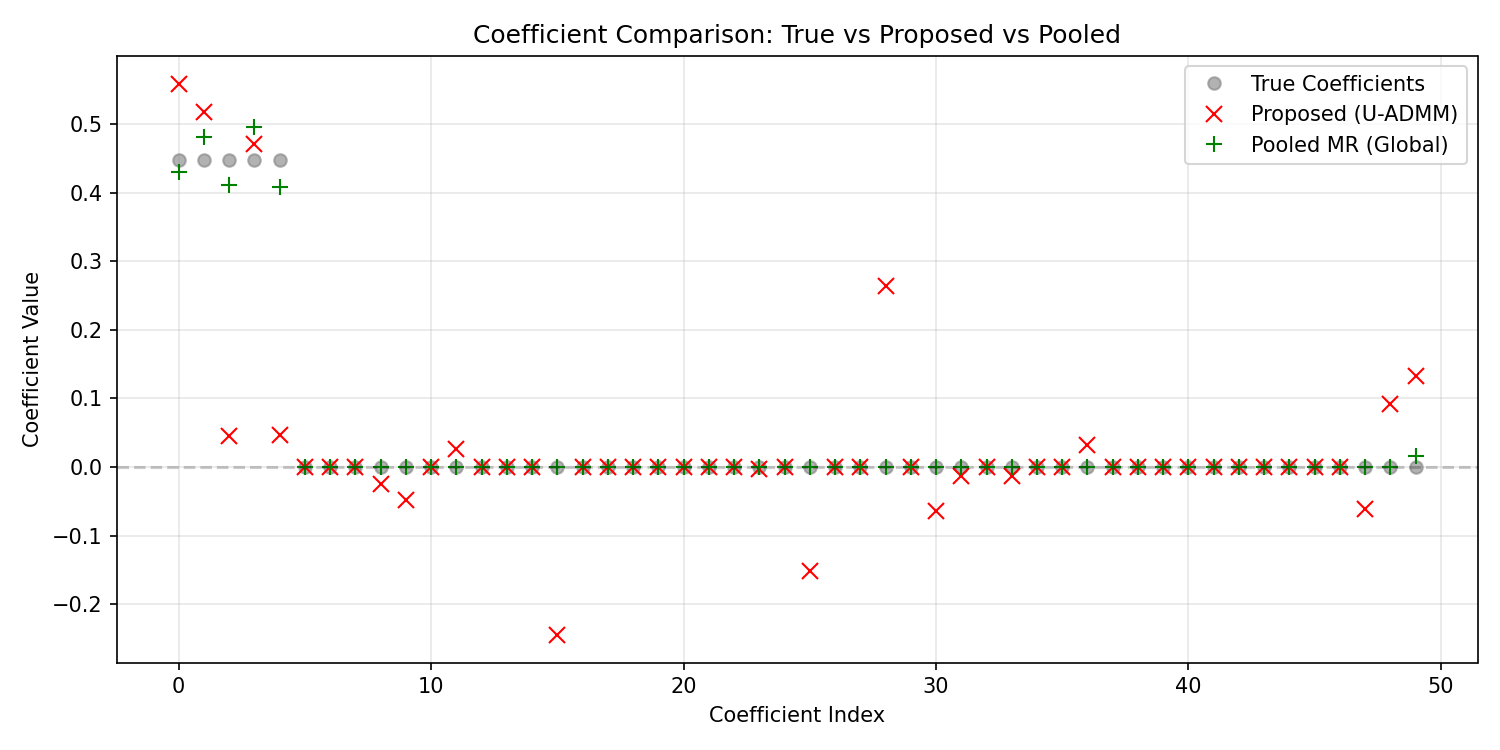
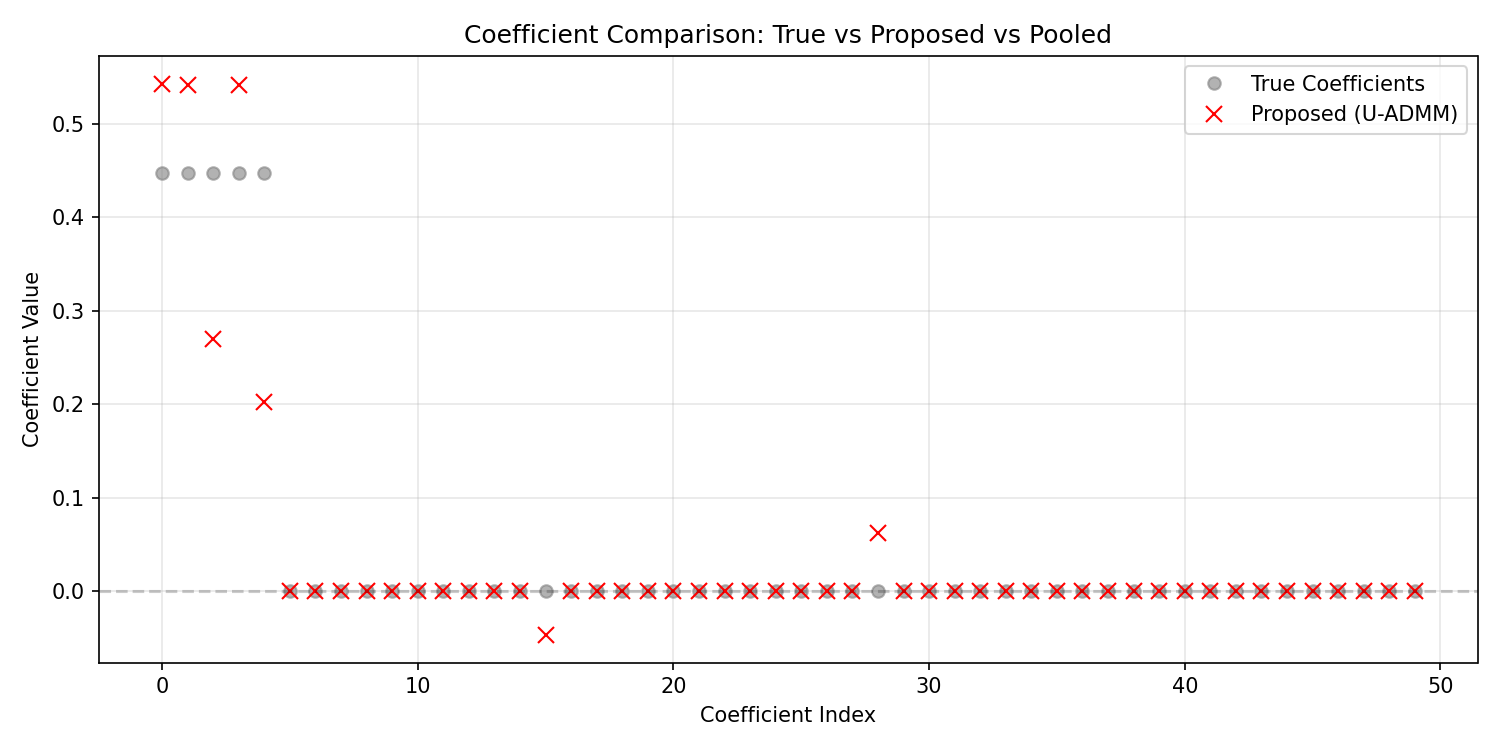
changes in admm

diff --git a/algorithms/admm.py b/algorithms/admm.py
@@ -166,8 +166,14 @@ def inner_admm(theta_t_list, p_t_list, agg_grad_list, H_rho_list, W,
         for j in range(m):
             sum_nb = sum(theta_w[k] for k in nb[j]) if nb[j] else np.zeros((p, 1))
 
+            # numerator = (
+            #         H_rho_list[j] * theta_w[j]  # 使用内层变量作为近端锚点
+            #         - agg_grad_list[j]
+            #         - p_w[j]
+            #         + rho * (dg[j] * theta_w[j] + sum_nb)
+            # )
             numerator = (
-                    H_rho_list[j] * theta_w[j]  # 使用内层变量作为近端锚点
+                    H_rho_list[j] * theta_t_list[j]  # 修复：必须使用外层传入的固定锚点！
                     - agg_grad_list[j]
                     - p_w[j]
                     + rho * (dg[j] * theta_w[j] + sum_nb)
@@ -267,144 +273,117 @@ def run_u_admm(data, T=5, W_inner=5, rho=0.1, lam_t=0.0, verbose=False,
             else:
                 data['precomputed_pairs'].append(aft_pairs(data['X'][j], data['logTt'][j], data['delta'][j], data['Sigma']))
 
-    # 支持通过 theta0_list 传入外部热启动参数
+    # 初始化
     if theta0_list is not None:
-        theta_t = [th.copy() for th in theta0_list]
+        init_theta_t = [th.copy() for th in theta0_list]
         theta_naive = np.mean(np.hstack(theta0_list), axis=1, keepdims=True)
         if task == 'ranking':
             theta_naive = _proj_sphere(theta_naive)
     else:
-        theta_t_local, theta_naive = init_all_nodes(data)
-        theta_t = [th.copy() for th in theta_t_local]
+        init_theta_t, theta_naive = init_all_nodes(data)
 
-    # 基于 Proposition 1 预计算各节点理论步长（循环外固定，避免逐迭代重算）
-    # rho_j > lambda_max(n^-1 * X^T * X)
+    # 预计算各节点理论步长
     theoretical_rho_list = []
     for j in range(m):
         X_j = data['X'][j]
-        n_j = X_j.shape[0]
-        # 计算本地样本协方差矩阵 n^-1 * X^T * X
-        cov_j = (X_j.T @ X_j) / n_j
-        # 理论下界：最大特征值 + 1e-3
+        cov_j = (X_j.T @ X_j) / X_j.shape[0]
         rho_j = float(np.linalg.eigvalsh(cov_j).max()) + 1e-3
         theoretical_rho_list.append(rho_j)
-
-    p_t = [np.zeros((p, 1)) for _ in range(m)]  # 初始化对偶变量
-
 
     history = {'rmse': [], 'consensus': [], 'debug': []}
 
     def _record(th_list):
-        rmse = float(np.mean([np.linalg.norm(th_list[j] - theta_true)
-                               for j in range(m)]))
+        rmse = float(np.mean([np.linalg.norm(th_list[j] - theta_true) for j in range(m)]))
         mat = np.hstack(th_list)
-        ce = float(np.mean(
-            np.sum((mat - mat.mean(1, keepdims=True))**2, 0)
-        ))
+        ce = float(np.mean(np.sum((mat - mat.mean(1, keepdims=True))**2, 0)))
         history['rmse'].append(rmse)
         history['consensus'].append(ce)
         return rmse
 
-    r0 = _record(theta_t)
     if verbose:
-        print(f'  [t=0 init]  RMSE={r0:.6f}')
-        print(f'  [Theory Rho] Mean={np.mean(theoretical_rho_list):.4f}, Max={np.max(theoretical_rho_list):.4f}')
+        print(f"  [Theory Rho] Mean={np.mean(theoretical_rho_list):.4f}, Max={np.max(theoretical_rho_list):.4f}")
 
-    current_lam = lam_t
-    current_rho = rho
-
-    for t in range(T):
-        agg_grad_list = [
-            compute_agg_grad(j, theta_t, data)
-            for j in range(m)
-        ]
-
-        # 使用基于理论下界的固定步长
-        H_rho_list = theoretical_rho_list
-
-        if lambda_candidates is not None and len(lambda_candidates) > 0:
-            best_ic = float('inf')
-            best_theta_t = None
-            best_p_t = None
-            best_rho = None
-            best_debug_info = None
-            best_lam = None
-            sorted_lambdas = sorted(lambda_candidates, reverse=True)
+    # =========================================================
+    # 阶段一：调参阶段 (绝对外层全局搜索 + 连续热启动)
+    # =========================================================
+    if lambda_candidates is not None and len(lambda_candidates) > 0:
+        best_ic = float('inf')
+        best_lam = 0.0
+        sorted_lambdas = sorted(lambda_candidates, reverse=True)
+        
+        # 建立流动的全局热启动起点
+        current_theta_start = [th.copy() for th in init_theta_t]
+        current_p_start = [np.zeros((p, 1)) for _ in range(m)]
+        
+        for lam_cand in sorted_lambdas:
+            # 每一个 lam 都从上一个 lam 最终收敛的全局状态开始
+            th_temp = [th.copy() for th in current_theta_start]
+            p_temp = [p.copy() for p in current_p_start]
+            rho_temp = rho
             
-# 2. 建立流动的内层热启动变量，初始值赋为外循环的起点
-            current_theta_inner = [th.copy() for th in theta_t]
-            current_p_inner = [p_copy.copy() for p_copy in p_t]
-            current_rho_inner = current_rho
-            
-            for lam_cand in sorted_lambdas:
-                # 3. 将 inner_admm 的输入替换为流动的热启动变量
-                cand_theta_t, cand_p_t, cand_rho, cand_debug_info = inner_admm(
-                    theta_t_list = current_theta_inner,  # <--- 使用上一个 lam 收敛的解
-                    p_t_list = current_p_inner,          # <--- 使用上一个 lam 的对偶变量
-                    agg_grad_list = agg_grad_list,
-                    H_rho_list = H_rho_list,
-                    W = W_adj,
-                    rho = current_rho_inner,             # <--- 继承动态平衡后的 rho
-                    W_inner = W_inner,
-                    lam_t = lam_cand,
-                    project = (task == 'ranking')
+            # 完整跑完 U-ADMM 的 T 轮代理构建
+            for t in range(T):
+                # 提早终止判断的缓存
+                th_prev = [th.copy() for th in th_temp]
+                
+                agg_grad_list = [compute_agg_grad(j, th_temp, data) for j in range(m)]
+                th_temp, p_temp, rho_temp, _ = inner_admm(
+                    theta_t_list=th_temp, p_t_list=p_temp, agg_grad_list=agg_grad_list,
+                    H_rho_list=theoretical_rho_list, W=W_adj, rho=rho_temp,
+                    W_inner=W_inner, lam_t=lam_cand, project=(task == 'ranking')
                 )
                 
-                # 4. 立即用当前 lam 的结果更新流动变量，喂给下一个更小的 lam
-                current_theta_inner = cand_theta_t
-                current_p_inner = cand_p_t
-                current_rho_inner = cand_rho
-                
-                ic_val = compute_ic(cand_theta_t, data, ic_type=ic_type)
-                
-                if ic_val < best_ic:
-                    best_ic = ic_val
-                    best_theta_t = cand_theta_t
-                    best_p_t = cand_p_t
-                    best_rho = cand_rho
-                    best_debug_info = cand_debug_info
-                    best_lam = lam_cand
+                # U-ADMM 二阶逼近极快，加入外层提早终止可极大提速
+                max_diff = max(float(np.linalg.norm(th_temp[j] - th_prev[j])) for j in range(m))
+                if max_diff < 1e-4:
+                    break
             
-            theta_t = best_theta_t
-            p_t = best_p_t
-            current_rho = best_rho
-            debug_info = best_debug_info
-            current_lam = best_lam
+            # 使用当前 lam 彻底收敛后的状态计算全局 BIC
+            ic_val = compute_ic(th_temp, data, ic_type=ic_type)
+            
+            if ic_val < best_ic:
+                best_ic = ic_val
+                best_lam = lam_cand
+                
+            # 用当前收敛点更新全局热启动池，喂给下一个更小的 lam
+            current_theta_start = th_temp
+            current_p_start = p_temp
+    else:
+        best_lam = lam_t
 
-        else:
-            theta_t, p_t, current_rho, debug_info = inner_admm(
-                theta_t_list = theta_t,
-                p_t_list = p_t,
-                agg_grad_list = agg_grad_list,
-                H_rho_list = H_rho_list,
-                W = W_adj,
-                rho = current_rho,
-                W_inner = W_inner,
-                lam_t = current_lam,
-                project = (task == 'ranking')
-            )
+    # =========================================================
+    # 阶段二：画图阶段 (使用全局最优 lambda 严格跑满 T 轮，记录完整历史)
+    # =========================================================
+    # 必须回退到算法最初始的起点，保证与 D-subGD 的对比绝对公平
+    theta_t = [th.copy() for th in init_theta_t]
+    p_t = [np.zeros((p, 1)) for _ in range(m)]
+    current_rho = rho
+
+    r0 = _record(theta_t)
+    if verbose:
+        print(f'  [t=0 init]  RMSE={r0:.6f}, Selected best_lam={best_lam:.4f}')
+
+    for t in range(T):
+        agg_grad_list = [compute_agg_grad(j, theta_t, data) for j in range(m)]
         
-        # Save outer iteration debug info
+        theta_t, p_t, current_rho, debug_info = inner_admm(
+            theta_t_list=theta_t, p_t_list=p_t, agg_grad_list=agg_grad_list,
+            H_rho_list=theoretical_rho_list, W=W_adj, rho=current_rho,
+            W_inner=W_inner, lam_t=best_lam, project=(task == 'ranking')
+        )
+        
         outer_debug = {
             't': t,
             'theta_t': [th.copy() for th in theta_t],
             'p_t': [p.copy() for p in p_t],
-            'agg_grad_list': [g.copy() for g in agg_grad_list],
-            'H_rho_list': H_rho_list.copy(),
-            'lam_t': current_lam,
+            'lam_t': best_lam,
             'inner_debug': debug_info
         }
-        if lambda_candidates is not None and len(lambda_candidates) > 0:
-            outer_debug['ic_val'] = best_ic
-            
         history['debug'].append(outer_debug)
 
         r = _record(theta_t)
         if verbose:
-            if lambda_candidates is not None and len(lambda_candidates) > 0:
-                print(f'  [t={t+1:2d}]  RMSE={r:.6f}, best_lam={current_lam:.4f}, rho={current_rho:.4f}, {ic_type.upper()}={best_ic:.4f}')
-            else:
-                print(f'  [t={t+1:2d}]  RMSE={r:.6f}, lam_t={current_lam:.4f}, rho={current_rho:.4f}')
-            
+            # 修改点：这里直接打印真正起作用的 best_lam
+            print(f'  [t={t+1:2d}]  RMSE={r:.6f}, rho={current_rho:.4f}, lam_t={best_lam:.4f}')
 
     return theta_t, theta_naive, history
